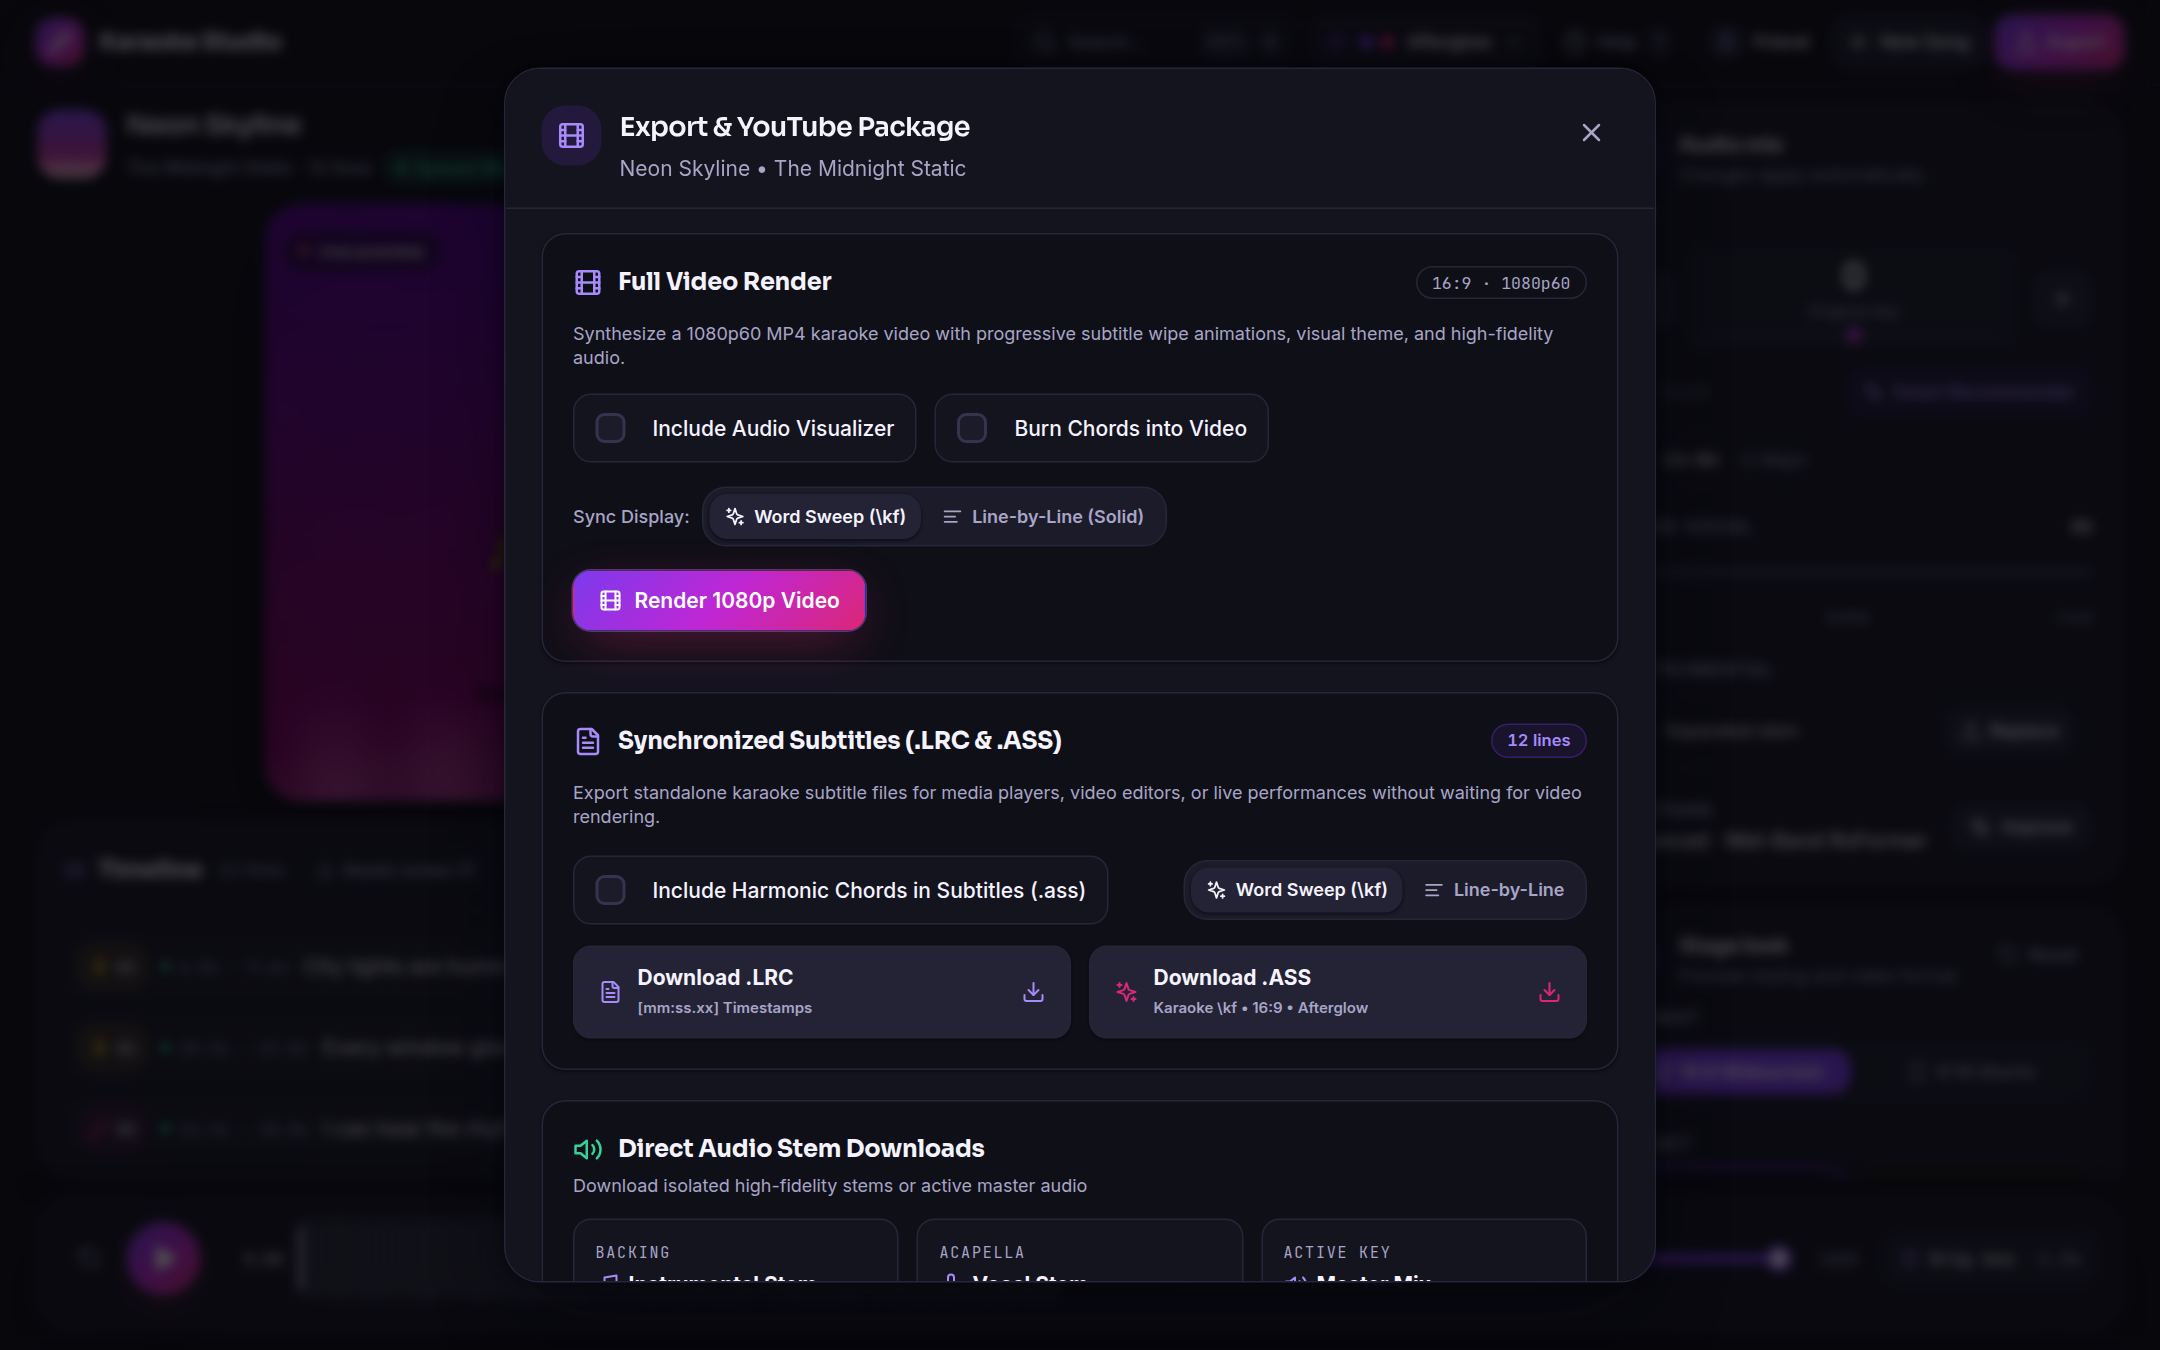
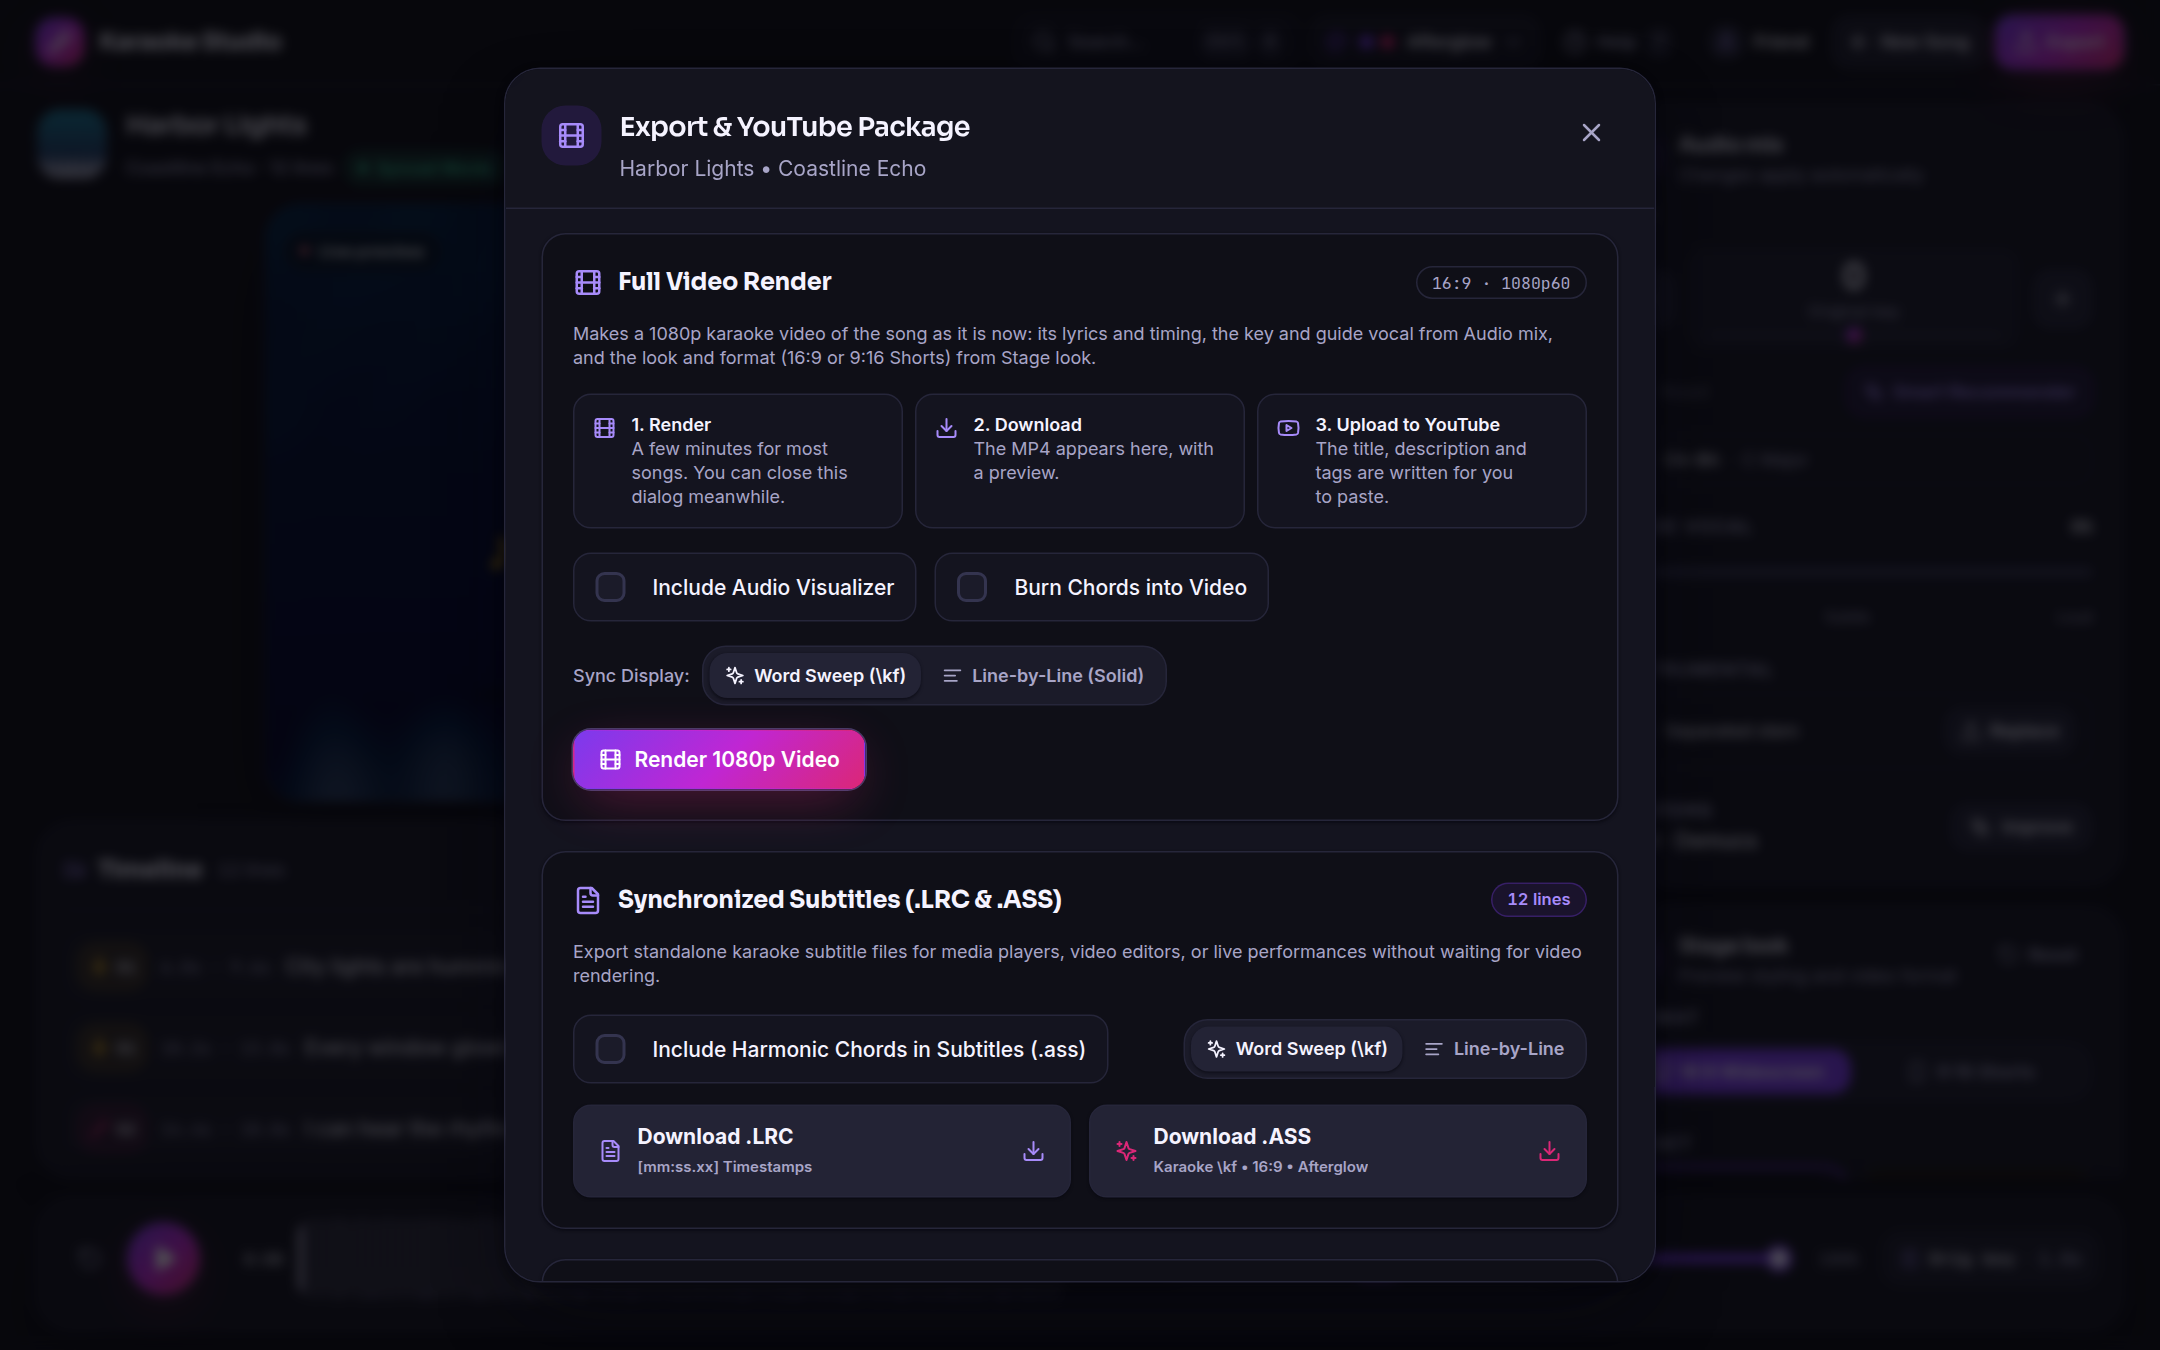
docs(readme): walk through the export and the YouTube upload
The walkthrough's last step said only that Export renders a video. It
now says what a render uses and that the dialog can be closed, and a new
"Putting the video on YouTube" section lists the five upload steps the
Export dialog shows after a render. "What's new in 2.9" and the "When
results are off" table cover the same, the export capture is retaken with
the new steps, and a capture of the upload steps is added.

Claude-Session: https://claude.ai/code/session_01NGuSGTcxWkpwfVAkzHyTeb

diff --git a/README.md b/README.md
@@ -10,6 +10,7 @@ Local-first web app that turns any song into karaoke: it splits the vocals from 
 - **A check-up for every song.** A button next to the song's title counts what looks off and opens a list with a button to each fix: lyrics that were never found, lines that may be out of time, singing without lyrics, stems that fell back to another quality (and why), and a background job that failed.
 - **Help can fix a problem.** A new **Fix a problem** tab in Help lists what you are likely to notice ("I can still hear the singer", "the words light up late") with why it happens and what to do, and buttons that open the right tool on the open song.
 - **Failed songs say why.** A song that fails now explains what happened in plain words (a private, blocked or removed video, a sign-in check, a download that did not get through), keeps the raw error under **Technical details**, and has **Try again**.
+- **Export, then YouTube, step by step.** The Export dialog now says what a render uses and how long it takes, and that you can close it while it runs. Under the finished video, **Upload to YouTube** walks through the upload: the title, the description (with chapters and lyrics) and the tags to paste, in order, then what to check before publishing.
 - **What to expect, up front.** The home screen and the processing screen say how long a song takes, that you can leave the page, and that an automatic result sometimes needs a touch-up. A song with no lyrics leads straight to the lyric search.
 
 See [Using Karaoke Studio](#using-karaoke-studio) and [When results are off](#when-results-are-off).
@@ -28,6 +29,7 @@ See [Using Karaoke Studio](#using-karaoke-studio) and [When results are off](#wh
 | ![Phone stage](docs/screenshots/phone-stage.png) <br> Phone: stage | ![Phone timeline](docs/screenshots/phone-timeline.png) <br> Phone: timeline |
 | ![First-song steps](docs/screenshots/first-song.png) <br> First-song steps | ![Song check-up](docs/screenshots/song-checkup.png) <br> Song check-up |
 | ![Fix a problem in Help](docs/screenshots/help-fix-a-problem.png) <br> Help: Fix a problem | ![A failed song](docs/screenshots/processing-failed.png) <br> A song that failed |
+| ![Upload to YouTube steps](docs/screenshots/youtube-upload.png) <br> Export: Upload to YouTube | |
 
 ## Using Karaoke Studio
 
@@ -38,7 +40,19 @@ A first song, start to finish. The studio shows the same steps on a card the fir
 3. **Play and sing.** Press <kbd>Space</kbd>. The words light up as they are sung.
 4. **Check the lyrics.** Everything is automatic, so now and then a lyric is wrong or a line is out of time. The **check-up** button next to the song's title counts what looks off and takes you to each fix; **Needs review** above the timeline shows the lines the aligner was unsure about.
 5. **Set your key.** In **Audio mix**, shift the key to your range (the tempo stays the same) and turn the guide vocal up to sing along with the original singer.
-6. **Make a video.** **Export** renders a 1080p karaoke video, or gives you subtitle files and the stems.
+6. **Make a video.** **Export** renders a 1080p karaoke video of the song as it is now: its lyrics and timing, the key and guide vocal from Audio mix, and the look and format (16:9 or 9:16 Shorts) from Stage look. Most songs take a few minutes, and you can close the dialog while it renders. The same dialog has subtitle files, the stems and a chord sheet.
+
+### Putting the video on YouTube
+
+The upload itself happens on YouTube; the studio sends nothing. Once a render has finished, **Upload to YouTube** under the video in the Export dialog gives you each step:
+
+1. **Download** the MP4, open YouTube Studio, choose **Create → Upload videos** and pick the file.
+2. **Paste the title** (`Artist - Song (Karaoke Version / With Lyrics)`, shortened to fit YouTube's 100 characters).
+3. **Paste the description**: the song's details, the lyrics and, when the song has three sections of ten seconds or more, timestamps that YouTube turns into chapters.
+4. **Paste the tags.** On the upload's Details step they are under **Show more**.
+5. **Check before you publish.** Start as Unlisted or Private, watch it through, then make it Public. A 9:16 video of up to three minutes is published as a Short. YouTube may recognise the song and put a copyright claim on the video (the rights holder can run ads on it or block it in some countries), so upload only songs you have the right to share.
+
+After changing the lyrics, the key or the look, **Render Again** makes a new video; the title, description and tags follow the song.
 
 ## When results are off
 
@@ -57,6 +71,8 @@ A first song, start to finish. The studio shows the same steps on a card the fir
 | It is a duet, but every line has one colour | **Duet parts → By Voice**; if it finds one voice, use Alternating or set lines with the singer chip. |
 | The song is too high or too low | Shift the key in Audio mix, or ask the **Smart Recommender**. |
 | Processing failed | The failed song says what happened in plain words (private, blocked or removed video, a sign-in check, a download that did not get through) and has **Try again**. If it fails the same way, download the audio yourself and upload it. |
+| The video render failed, or takes very long | **Try Again** in Export. A render draws every frame, so a few minutes is normal; you can close the dialog while it runs, and a failed render keeps the previous video. |
+| I don't know how to get the video onto YouTube | Render and download it, then follow **Upload to YouTube** under the finished video. See [Putting the video on YouTube](#putting-the-video-on-youtube). |
 | Re-timing the lyrics or re-making the stems failed | The song keeps its previous timing and stems. Only one job runs on a song at a time: wait for it, then start again. |
 
 ## Features
